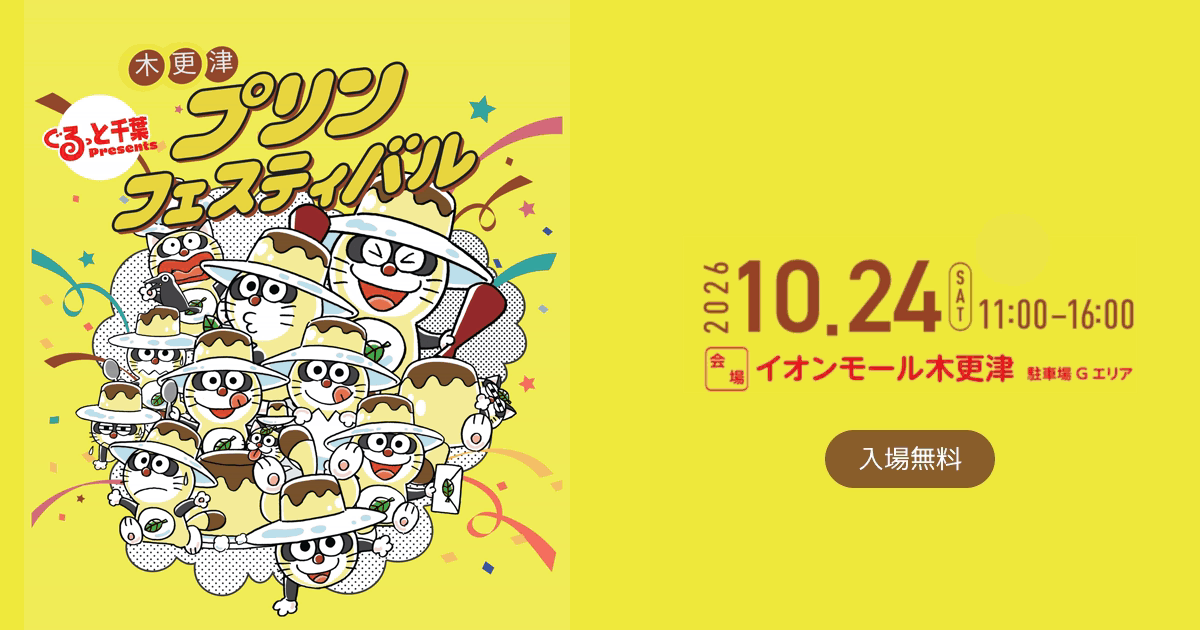
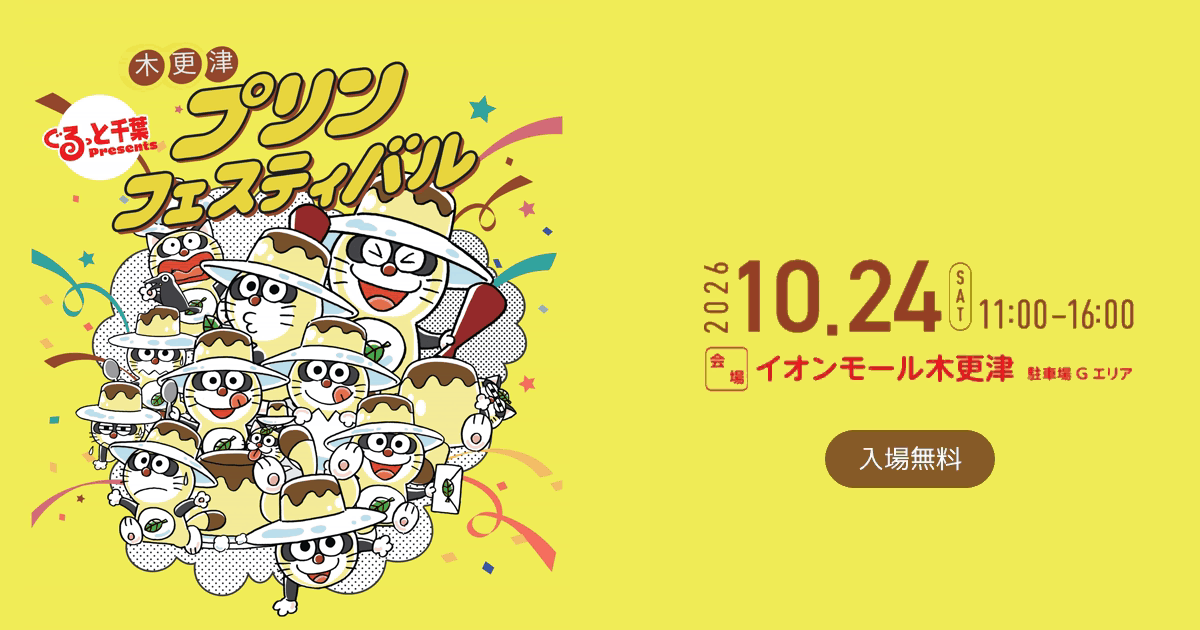
背景色をel_titlechars.pngの実測色(#f1ed58)に統一
- .theme-poster の --paper を #f1eb3d → #f1ed58 に修正し、ページ背景とポスター画像の色ずれを解消
- og-imageの背景も同色に合わせて右側ブロックをリカラーし全体を再合成
- ja.yamlの出店店舗情報更新を反映

diff --git a/src/App.css b/src/App.css
@@ -1112,8 +1112,8 @@
 /* ===== ポスターテーマ（NEW_DESIGN_ENABLED フラグ有効時のみ） ===== */
 /* 文字色・アクセント色（caramel系）は元デザイン（false）と統一し、変更するのは背景色のみ */
 .theme-poster {
-  /* ポスター本体の地色（#f1eb3d 実測）と、少し薄めたトーンの2色 */
-  --paper: #f1eb3d;
+  /* ポスター本体の地色（#f1ed58 実測）と、少し薄めたトーンの2色 */
+  --paper: #f1ed58;
   --paper-deep: #f8f27a;
   background: var(--paper);
 }
